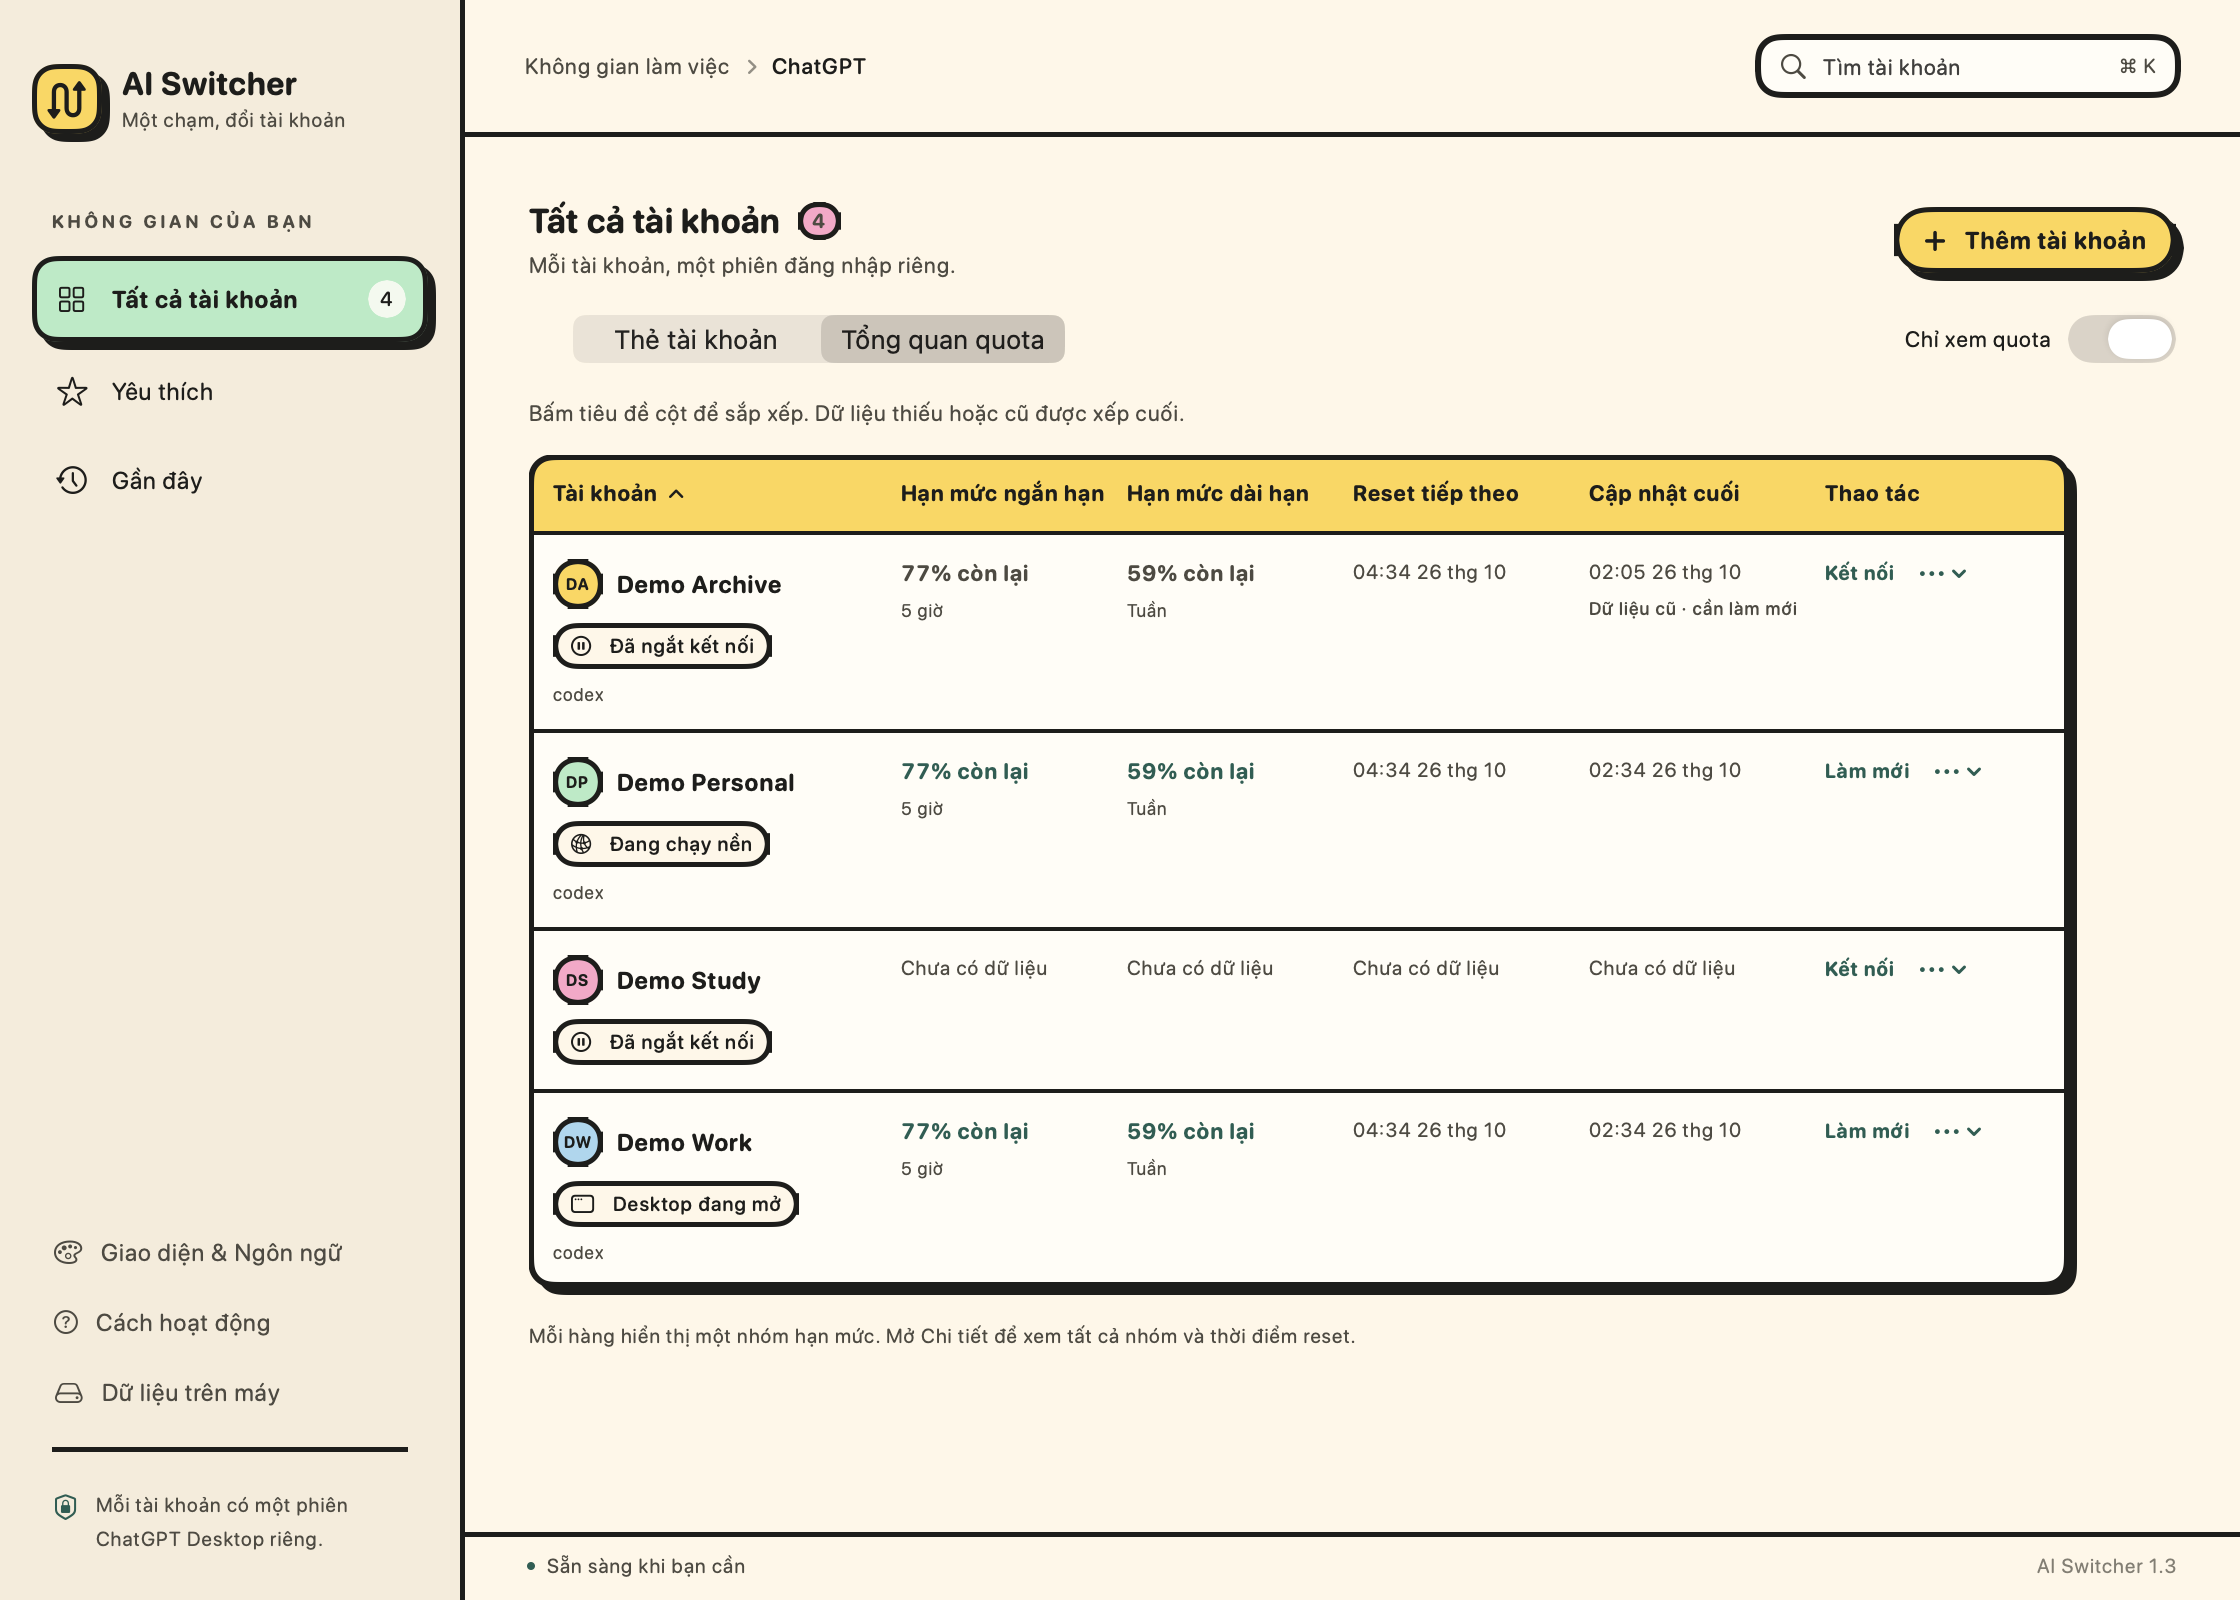
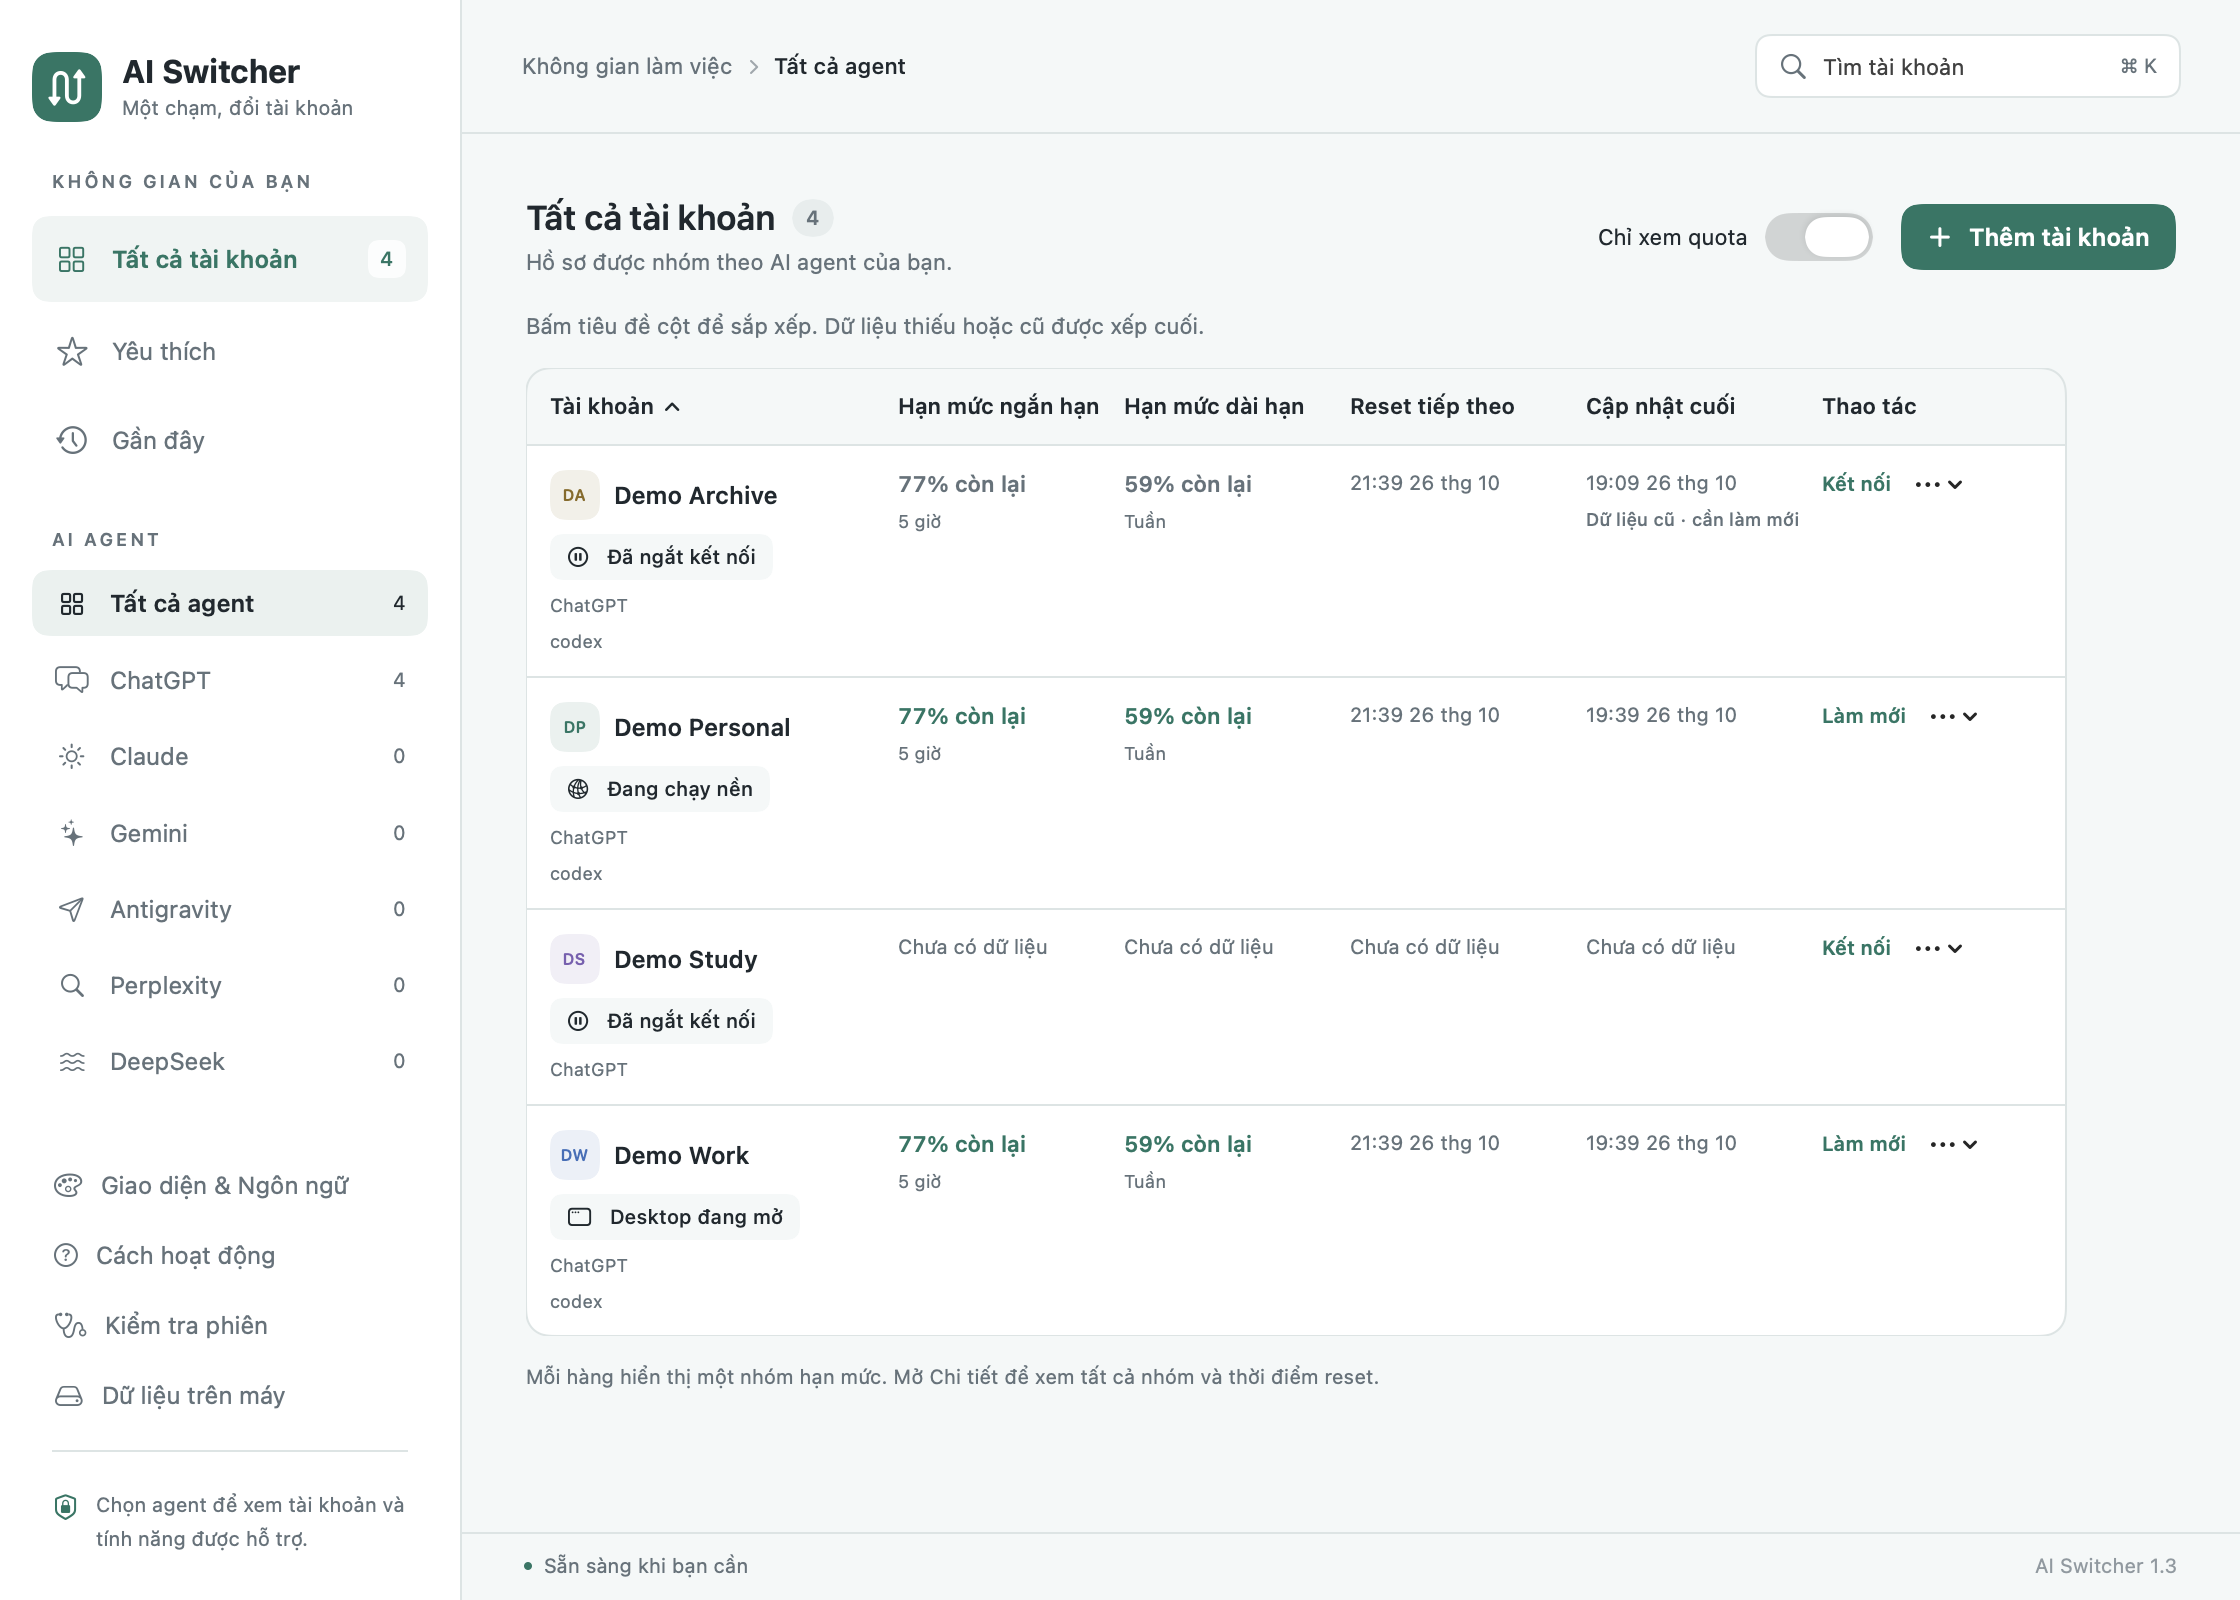
Simplify dashboard actions and refresh interface screenshots

diff --git a/Sources/AISwitcher/Dashboard.swift b/Sources/AISwitcher/Dashboard.swift
@@ -260,7 +260,7 @@ struct Dashboard: View {
 
     private var accountSection: some View {
         VStack(alignment: .leading, spacing: 18) {
-            HStack {
+            HStack(spacing: 16) {
                 VStack(alignment: .leading, spacing: 5) {
                     HStack(spacing: 8) {
                         Text(model.filter.title).font(appearanceTheme.font(size: 17, weight: .semibold))
@@ -272,20 +272,15 @@ struct Dashboard: View {
                     Text(L10n.text("Profiles grouped by your AI agents."))
                         .font(appearanceTheme.font(size: 11)).foregroundColor(palette.secondary)
                 }
-                Spacer()
-                Button { model.addAccount() } label: { Label(L10n.text("Add account"), systemImage: "plus") }
-                    .buttonStyle(PrimaryButtonStyle(compact: true)).disabled(model.loadFailed)
-                    .accessibilityIdentifier("addAccount")
-            }
-            HStack(spacing: 14) {
-                Picker(L10n.text("Workspace view"), selection: Binding(get: { model.preferences.workspaceLayout }, set: { model.setWorkspaceLayout($0) })) {
-                    ForEach(WorkspaceLayout.allCases) { Text($0.title).tag($0) }
-                }.pickerStyle(.segmented).labelsHidden().frame(maxWidth: 290)
-                    .accessibilityIdentifier("workspaceLayout")
                 Spacer(minLength: 0)
-                Toggle(L10n.text("Quota-only mode"), isOn: Binding(get: { model.preferences.quotaOnlyMode }, set: { model.setQuotaOnlyMode($0) }))
-                    .toggleStyle(.switch).font(appearanceTheme.font(size: 11))
-                    .accessibilityIdentifier("quotaOnlyMode")
+                HStack(spacing: 14) {
+                    Toggle(L10n.text("Quota-only mode"), isOn: Binding(get: { model.preferences.quotaOnlyMode }, set: { model.setQuotaOnlyMode($0) }))
+                        .toggleStyle(.switch).font(appearanceTheme.font(size: 11)).fixedSize()
+                        .accessibilityIdentifier("quotaOnlyMode")
+                    Button { model.addAccount() } label: { Label(L10n.text("Add account"), systemImage: "plus") }
+                        .buttonStyle(PrimaryButtonStyle(compact: true)).disabled(model.loadFailed).fixedSize()
+                        .accessibilityIdentifier("addAccount")
+                }
             }
             if model.visibleAccounts.isEmpty {
                 emptyState

diff --git a/Sources/AISwitcher/PreferencesView.swift b/Sources/AISwitcher/PreferencesView.swift
@@ -41,6 +41,9 @@ struct PreferencesView: View {
                 }.pickerStyle(.segmented).labelsHidden().accessibilityIdentifier("languagePicker")
             }
             VStack(alignment: .leading, spacing: 9) {
+                Picker(L10n.text("Workspace view"), selection: Binding(get: { model.preferences.workspaceLayout }, set: { model.setWorkspaceLayout($0) })) {
+                    ForEach(WorkspaceLayout.allCases) { Text($0.title).tag($0) }
+                }.accessibilityIdentifier("workspaceLayout")
                 Toggle(L10n.text("Quota-only mode"), isOn: Binding(get: { model.preferences.quotaOnlyMode }, set: { model.setQuotaOnlyMode($0) }))
                     .toggleStyle(.switch).font(appearanceTheme.font(size: 13, weight: .semibold))
                 Text(L10n.text("Quota-only mode applies to ChatGPT Desktop profiles. Other agents keep their normal open action."))

diff --git a/README.md b/README.md
@@ -106,7 +106,7 @@ Enable **Quota-only mode** on the dashboard or in **Appearance & Language**. Def
 
 In **Edit profile**, choose **Default account action** separately for each Desktop profile and optionally enable **Connect in background when AI Switcher starts**. Startup connection is off by default, runs only for selected Desktop profiles, and never opens a window or starts a sign-in flow. Global quota-only mode overrides the per-profile action while enabled; turning it off restores each profile's choice. Background connections do not change recently opened accounts.
 
-Switch between **Account cards** and **Quota overview**. The table shows remaining quota in the primary/secondary windows, actual window durations, next future reset, last update, and session status. Click column headings to toggle sorting; quota sorting puts missing, expired, failed, or stale values last. Each row uses the first limit group (preferring `codex`); **Details** shows all groups without combining their percentages. View and sort choices persist after relaunch. Small windows support horizontal table scrolling.
+The dashboard keeps **Quota-only mode** beside **Add account**. Choose **Workspace view → Account cards / Quota overview** in **Appearance & Language** to change the layout. The table shows remaining quota in the primary/secondary windows, actual window durations, next future reset, last update, and session status. Click column headings to toggle sorting; quota sorting puts missing, expired, failed, or stale values last. Each row uses the first limit group (preferring `codex`); **Details** shows all groups without combining their percentages. View and sort choices persist after relaunch. Small windows support horizontal table scrolling.
 
 Session badges distinguish **Disconnected**, **Connecting**, **Opening**, **Closing**, **Running in background**, **Desktop window open**, **Browser running**, **Sign-in required**, and **Connection failed**. Desktop window status includes minimized windows and uses the existing local window metadata check. Reading quota refreshes session state immediately; normal monitoring checks it every three seconds. Old quota snapshots stay visibly marked when stale or a refresh fails.
 

diff --git a/docs/ARCHITECTURE.md b/docs/ARCHITECTURE.md
@@ -101,3 +101,5 @@ Per-profile optional `defaultAction` and `connectOnStartup` fields migrate witho
 Capabilities guard backend discovery, startup connection, quota reads, connect/restart actions, cached connection visibility, and notifications. Non-ChatGPT profiles cannot invoke Codex even if imported metadata contains old quota or startup fields. Menus and diagnostics expose the same capabilities. Provider routing and these guards have fixture tests.
 
 `AppPreferences.agentFilter` persists independently in UserDefaults. Unknown values fall back to all agents. Sidebar counts cover all saved entries per agent, while displayed accounts combine agent, workspace filter, and search. New-account editors inherit the active agent. The sidebar scrolls in shorter windows; provider filters are available in every existing theme.
+
+The dashboard account header groups quota-only mode immediately before Add account. Layout selection lives in Preferences (`Workspace view`) so cards and the quota overview retain their existing persisted behavior without a second dashboard toolbar row.
